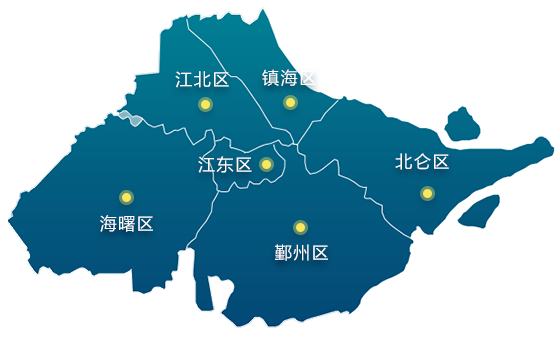
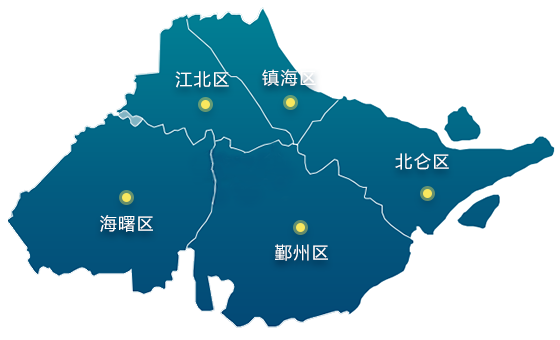
change pcIndex page of map

Changed region(s): [[0.3339, 0.4118, 0.5161, 0.5882]]

diff --git a/src/views/map/adminMap/App.vue b/src/views/map/adminMap/App.vue
@@ -83,7 +83,7 @@ html,body{
                                    <el-date-picker style="width:100%" value-format="yyyy-MM-dd" v-model="endTime"  type="date" placeholder="结束时间"> </el-date-picker>
                             </el-row>
                             <span slot="footer">
-                             <el-button type="primary" @click="startGps">确 定</el-button>
+                             <el-button type="primary" @click="startGps()">确 定</el-button>
                             </span>
                       </el-dialog> 
                   </el-row>
@@ -494,30 +494,33 @@ export default {
     },
     //开始回放巡检轨迹
     startGps() {
+
         let query = new this.Query();
         query.buildWhereClause('sysUserNm',this.userVal,'EQ');
         query.buildWhereClause('crtTm',this.startTime,'GE');
         query.buildWhereClause('crtTm',this.endTime,'LE');
+        query.buildOrderClause("crtTm","asc");
         let param = query.getParam();
-        this.until.get("/ph/inspGps/pageMap", param).then(res => {
+        this.until.get("/ph/inspGps/page", param).then(res => {
         var pts = [];
-        for (var i = 0; i < res.data[0].length; i++) {
+       
+        for (var i = 0; i < res.data.items.length; i++) {
          // console.log(res.data[0][i].inspGpsVo.crtTm);
           //pts.push(
-         var pt =   new BMap.Point(
-              res.data[0][i].inspGpsVo.longitude,
-              res.data[0][i].inspGpsVo.latitude,
+         var pt  =   new BMap.Point(
+              res.data.items[i].longitude,
+              res.data.items[i].latitude,
             )
-            pt.crtTm = res.data[0][i].inspGpsVo.crtTm
+            pt.crtTm = res.data.items[i].crtTm
           pts.push(pt)
         // );
         }
-        this.center.lng = res.data[0][0].inspGpsVo.longitude;
-        this.center.lat = res.data[0][0].inspGpsVo.latitude;
+        this.center.lng = res.data.items[0].longitude;
+        this.center.lat = res.data.items[0].latitude;
         this.zoom = 15;
         this.path = pts;
         this.polylinePath = pts;
-         console.log(this.polylinePath);
+         
       });
 
       this.dialogxj = false;

diff --git a/src/views/map/appMap/App.vue b/src/views/map/appMap/App.vue
@@ -373,10 +373,7 @@ export default {
     },
     //跳转维修管理
     lookWX(val) {
-      // window.open(
-      //   "http://111.2.25.208:6081/view/ph/deviceRepair/deviceRepairComplate.html?estateNm=" +
-      //     val
-      // );
+    
       let search = {
         estateNm: val
       };
@@ -385,10 +382,7 @@ export default {
     },
     //跳转巡检报表
     lookXJ(val) {
-      /*  window.open(
-        "http://111.2.25.208:6081/view/ph/insptaskAll/insptask.html?estateNm=" +
-          val
-      ); */
+     
       let search = {
         estateNm: val
       };

diff --git a/src/views/home/pcIndex/app.vue b/src/views/home/pcIndex/app.vue
@@ -159,19 +159,15 @@
               <i>{{mapData.yinzhouNum}}</i>
             </span>
             <span>
-              （江东）
-              <i>{{mapData.jiangdongNum}}</i>
-            </span>
-            <span>
               海曙
               <i>{{mapData.haishuNum}}</i>
             </span>
-          </div>
-          <div>
             <span>
               江北
               <i>{{mapData.jiangbeiNum}}</i>
             </span>
+          </div>
+          <div>
             <span>
               北仑
               <i>{{mapData.beilunNum}}</i>

diff --git a/src/views/monitor/statis/App.vue b/src/views/monitor/statis/App.vue
@@ -29,11 +29,7 @@ export default {
     this.ipPk = this.until.getQueryString("ipPk");
     this.type = this.until.getQueryString("type");
     this.loadLineChart();
-    // this.src =
-    //   "http://111.2.25.208:6081/view/ph/equipment/equipment-chart.html?pk=" +
-    //   this.ipPk +
-    //   "&type=" +
-    //   this.type;
+   
   },
   methods: {
     loadLineChart() {

diff --git a/src/views/inspection/inspectionGps/App.vue b/src/views/inspection/inspectionGps/App.vue
@@ -173,8 +173,7 @@ export default {
       window.location.href =
         "http://111.2.25.208:6081/view/ph/equipment/equipmentInfoApp.html?pk=" +
         num;
-      //window.open("http://111.2.25.208:6081/view/ph/equipment/equipmentInfoApp.html?pk="+num)
-      //this.showDialogStyle = true;
+     
     },
 
     reset() {
